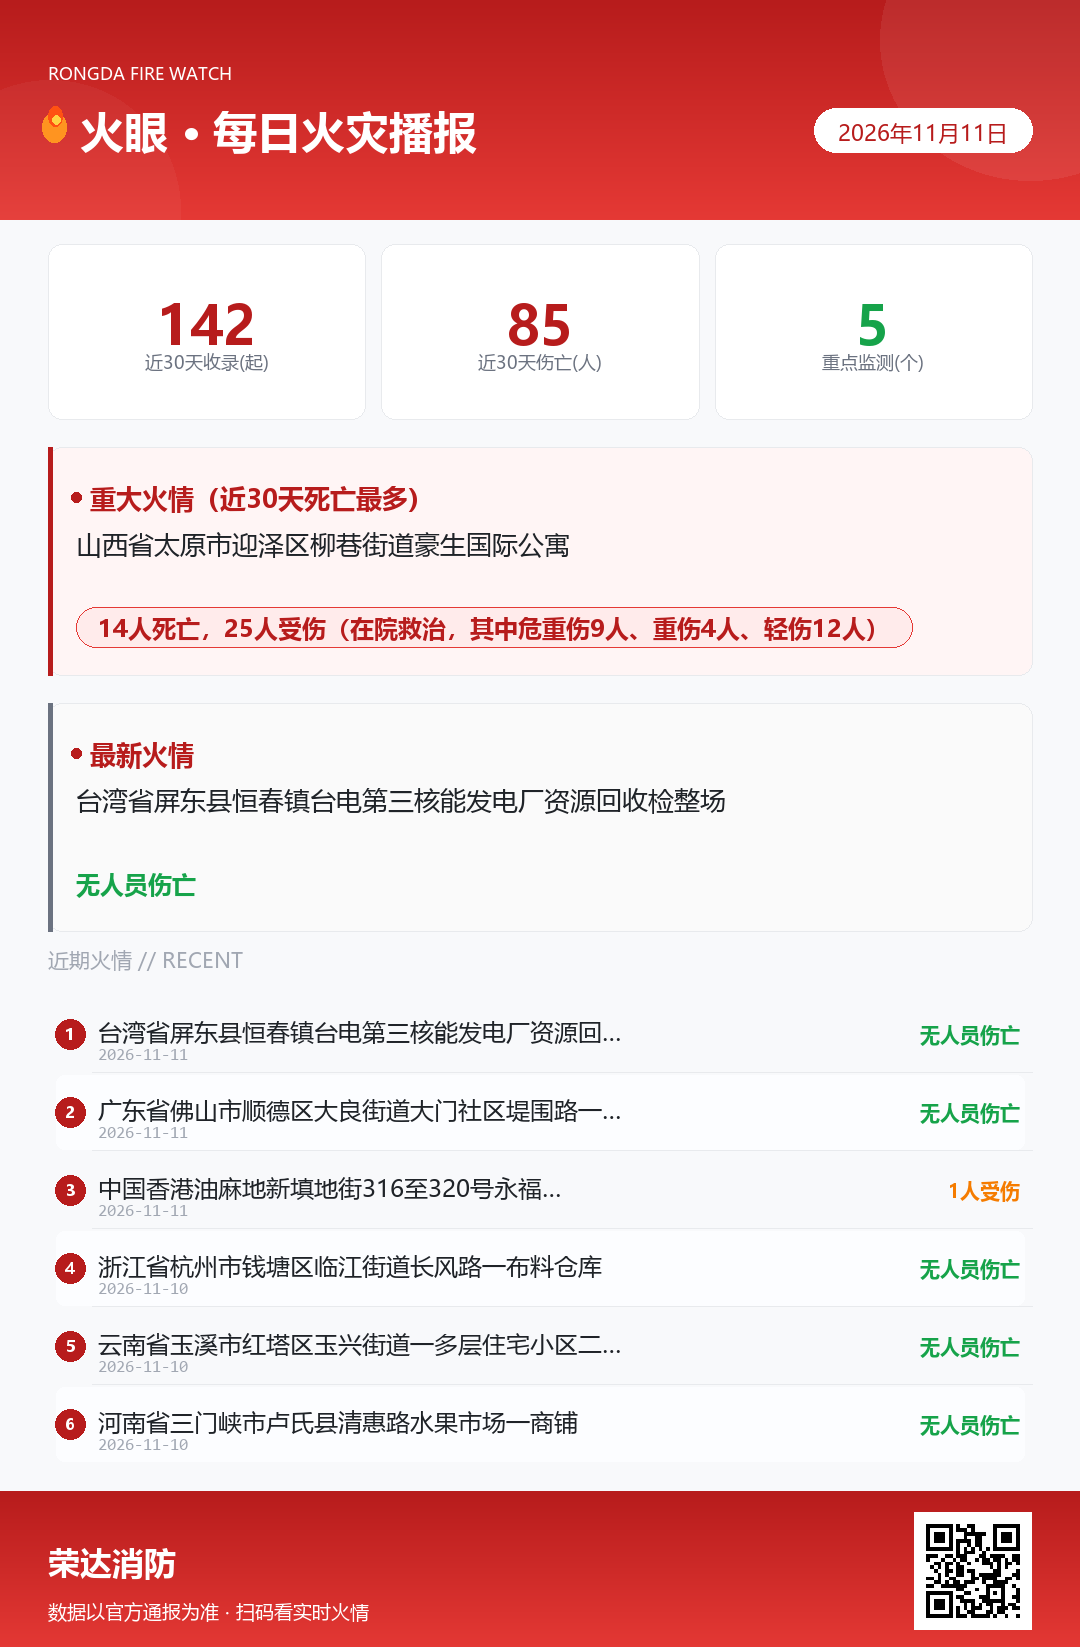
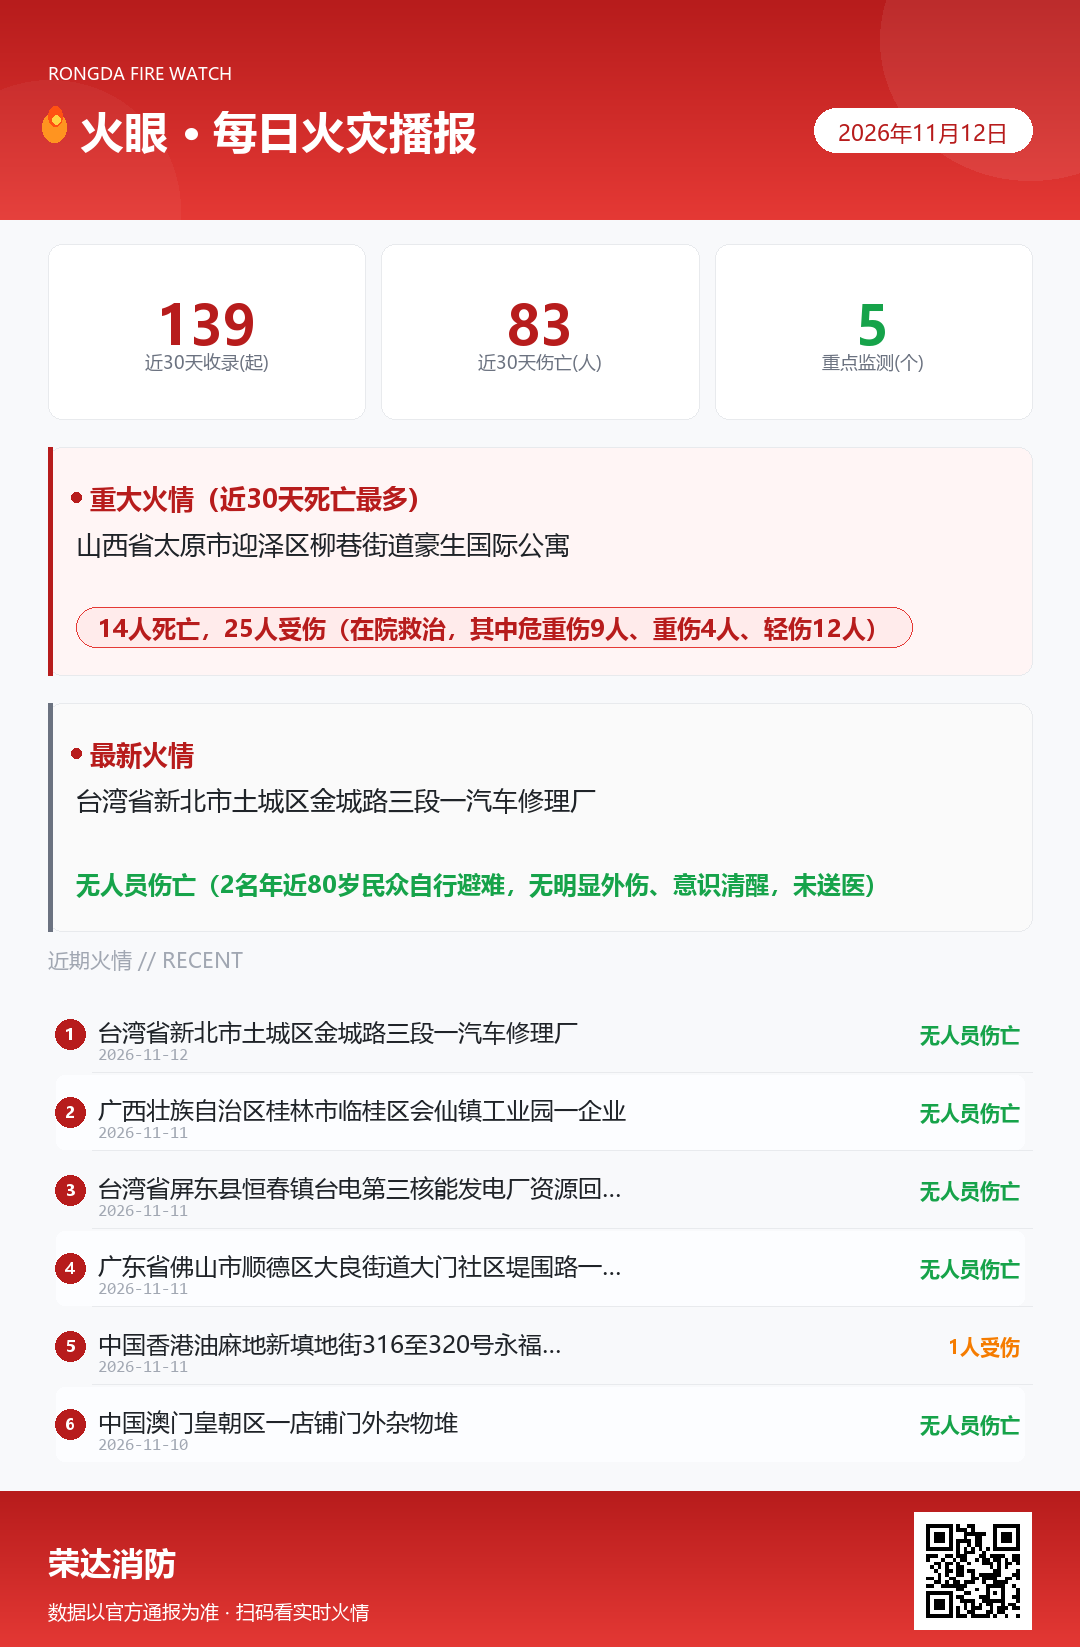
fire-daily-brief 2026-11-12 09:58 roll

diff --git a/index.html b/index.html
@@ -433,9 +433,10 @@
 <body data-page-node-id="ICXkWpuir7NPQq2WkGSUm2">
 
 <!-- ============ DATA（每日自动更新：由自动化脚本重写此对象） ============ -->
-<script id="brief-data" type="application/json">{
-  "date": "2026年11月11日",
-  "compileTime": "2026-11-11 17:32",
+<script id="brief-data" type="application/json">
+{
+  "date": "2026年11月12日",
+  "compileTime": "2026-11-12 09:58",
   "source": "AI 联网检索 · 各地消防救援机构官方通报及权威媒体转载",
   "range": "滚动更新 · 近 30 天",
   "stats": {
@@ -462,13 +463,13 @@
     }
   ],
   "case": {
-    "date": "2026-11-11",
-    "location": "台湾省屏东县恒春镇台电第三核能发电厂资源回收检整场",
+    "date": "2026-11-12",
+    "location": "台湾省新北市土城区金城路三段一汽车修理厂",
     "category": "工厂/车间",
-    "summary": "11月11日上午10时8分，台电第三核能发电厂（核三厂）厂区外围的资源回收检整场发生火警，现场人员发现后通报厂内消防队赶赴处置，并请求外部消防单位支援。屏东县消防局10时32分接获通报，派遣恒春分队、垦丁分队及第四大队共7车12人前往协助灭火，10时51分现场回报火势已获控制。台电表示火势已扑灭、无人员伤亡，机房及设备未受影响，因起火点距反应炉心较远，无辐射外泄疑虑，已依规定通报主管机关，后续将进行起火原因调查与财产损失盘点。另有民意代表指出从起火到通报消防存在约24分钟落差，要求公开完整时间轴并彻查厂区消防管理。",
-    "casualty": "无人员伤亡",
-    "cause": "资源回收检整场起火，具体原因待调查厘清",
-    "src": "中央社（2026-11-11，据台电及屏东县消防局通报）"
+    "summary": "11月12日凌晨4时14分许，新北市消防局接获报案，土城区金城路三段一处一层独栋铁皮汽车修理厂发生大火。消防人员到场时现场已全面燃烧，因厂内及周边堆放大量易燃物，火势由汽车修理厂向两侧延烧家具行、建材行、门窗行，共4家厂商陷入火海；起火处紧邻一家汽车旅馆，又位于捷运土城树林线工地旁，浓烟与烈焰惊醒附近大楼住户。消防局出动64辆各式车辆、逾200人抢救，并以云梯车从各面持续射水，5时30分许初步控制火势；5时45分许在火场后方空地发现2名自行避难的民众（1男1女、均年近80岁），意识清醒、无明显外伤，不需送医。火场燃烧面积约1000平方米，起火原因待火势扑灭后由火灾鉴识中心调查。新北市环保局经模式模拟，研判烟雾及异味可能往下风处飘散、影响土城、中和、板桥3区，提醒邻近及下风处居民紧闭门窗、外出佩戴口罩。",
+    "casualty": "无人员伤亡（2名年近80岁民众自行避难，无明显外伤、意识清醒，未送医）",
+    "cause": "起火原因待火灾鉴识中心调查厘清",
+    "src": "中央社（2026-11-12，据新北市消防局、环保局通报）"
   },
   "tips": [
     "住宅类火情近30天49起居首、占超三成，电气与堆物是主因：上海11·06空调外机起火熏黑整栋、香港11·07香薰点燃杂物致1死、多起老旧插头“九年未拔”与排插长期通电。立冬后取暖用电负荷上升，老旧插排和长通插头赶紧换，空调外机周边清走杂物与积尘，人离即断。",
@@ -487,6 +488,24 @@
     "媒体转载内容均注明原始官方来源。"
   ],
   "history": [
+    {
+      "date": "2026-11-12",
+      "location": "台湾省新北市土城区金城路三段一汽车修理厂",
+      "category": "工厂/车间",
+      "summary": "11月12日凌晨4时14分许，新北市消防局接获报案，土城区金城路三段一处一层独栋铁皮汽车修理厂发生大火。消防人员到场时现场已全面燃烧，因厂内及周边堆放大量易燃物，火势由汽车修理厂向两侧延烧家具行、建材行、门窗行，共4家厂商陷入火海；起火处紧邻一家汽车旅馆，又位于捷运土城树林线工地旁，浓烟与烈焰惊醒附近大楼住户。消防局出动64辆各式车辆、逾200人抢救，并以云梯车从各面持续射水，5时30分许初步控制火势；5时45分许在火场后方空地发现2名自行避难的民众（1男1女、均年近80岁），意识清醒、无明显外伤，不需送医。火场燃烧面积约1000平方米，起火原因待火势扑灭后由火灾鉴识中心调查。新北市环保局经模式模拟，研判烟雾及异味可能往下风处飘散、影响土城、中和、板桥3区，提醒邻近及下风处居民紧闭门窗、外出佩戴口罩。",
+      "casualty": "无人员伤亡（2名年近80岁民众自行避难，无明显外伤、意识清醒，未送医）",
+      "cause": "起火原因待火灾鉴识中心调查厘清",
+      "src": "中央社（2026-11-12，据新北市消防局、环保局通报）"
+    },
+    {
+      "date": "2026-11-11",
+      "location": "广西壮族自治区桂林市临桂区会仙镇工业园一企业",
+      "category": "工厂/车间",
+      "summary": "11月11日21时许，桂林市临桂区会仙镇工业园内一家企业发生火情。临桂区委、区政府接报后第一时间组织应急、消防等相关部门赶赴现场处置，经全力扑救，现场明火于当日23时许扑灭，未造成人员伤亡，无重大财产损失。目前现场隐患排查清理工作有序开展，起火原因正进一步调查中。",
+      "casualty": "无人员伤亡",
+      "cause": "起火原因正在进一步调查中",
+      "src": "临桂区应急管理局情况通报（2026-11-11）"
+    },
     {
       "date": "2026-11-11",
       "location": "台湾省屏东县恒春镇台电第三核能发电厂资源回收检整场",
@@ -513,6 +532,15 @@
       "casualty": "1人受伤送院（起火单位24岁男住户吸入浓烟），另有多名住户感到不适（含1名男婴），无死亡",
       "cause": "单位内电脑充电器充电期间短路冒烟起火，原因无可疑",
       "src": "香港01、东网（2026-11-11，据香港消防及警方调查）"
+    },
+    {
+      "date": "2026-11-10",
+      "location": "中国澳门皇朝区一店铺门外杂物堆",
+      "category": "其他",
+      "summary": "11月10日上午7时5分，澳门消防局向司法警察局通报，皇朝区一家店铺门外有杂物起火，火势造成大厦墙身熏黑，财物损失仍待进一步估算。司警调查后锁定在起火店铺邻近另一家店铺工作的31岁缅甸籍男外雇，认定其案发前在店门外吸烟后将未熄烟蒂丢弃地上、未妥善处理即离开，烟蒂随后被风吹至杂物堆引燃。当日上午约9时30分，司警前往其工作店铺将其带走调查后拘捕，以「造成火警爆炸以及其他特别危险行为罪」移送检察院侦办，案件列作怀疑纵火案。",
+      "casualty": "通报未提及人员伤亡",
+      "cause": "疑乱丢未熄烟蒂引燃门外杂物，已列怀疑纵火案侦办",
+      "src": "澳门日报（2026-11-12，据司法警察局及消防局通报）"
     },
     {
       "date": "2026-11-10",
@@ -3982,7 +4010,8 @@
       "src": "葫芦岛市消防救援局警情通报（经媒体报道）"
     }
   ]
-}</script>
+}
+</script>
 
 <!-- nav -->
 <nav class="nav" data-page-node-id="36xZqpjYtKqVRIAEorBoJT">
